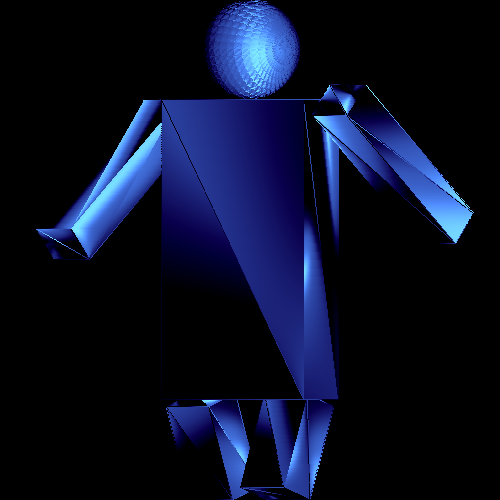
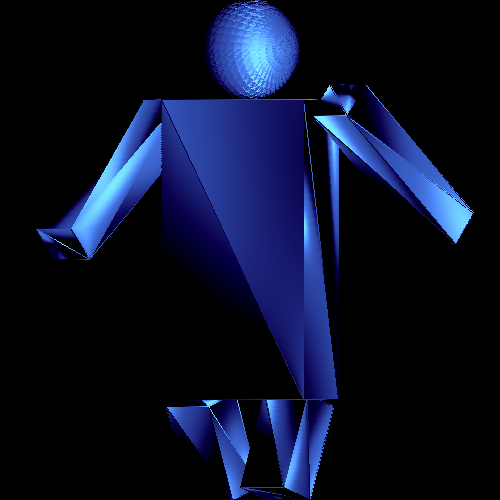
almost there...

diff --git a/draw.c b/draw.c
@@ -177,13 +177,13 @@ void draw_polygons( struct matrix * polygons, screen s, color c, struct matrix* 
 		      //printf("%f %f %f\n",normal[0],normal[1],normal[2]);
 		    int add = 1;
 		    
-		    if(vertices->lastcol<=8){
+		    /*if(vertices->lastcol<=8){
 		    for(k = 0; k < to_add[j]->lastcol;k++)
 		      if(nearly_equal(to_add[j]->m[0][k],normal[0])
 			 &&nearly_equal(to_add[j]->m[1][k],normal[1])
 			 &&nearly_equal(to_add[j]->m[2][k],normal[2]))
 			add = 0;
-		    }
+		    }*/
 		    if(add){
 		      //printf("normal: %f %f %f\n", normal[0],normal[1],normal[2]);
 		      add_point(to_add[j],normal[0],normal[1],normal[2]);
